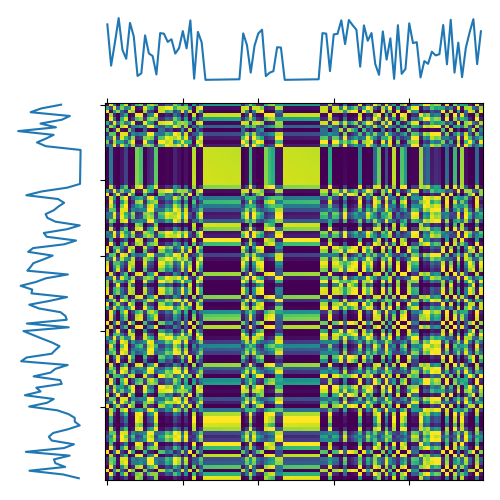
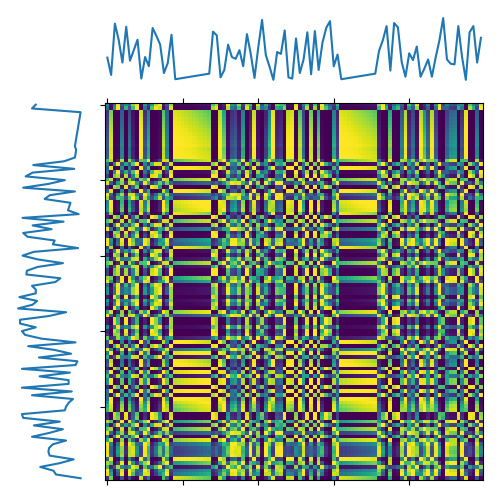
feat: best motif done

diff --git a/app/app.py b/app/app.py
@@ -9,8 +9,8 @@ from locomotif.loconsensus import similarity_matrix as sm
 from locomotif.loconsensus import timeseries_generator as tsg
 
 logging.basicConfig(
-    # level=logging.INFO,
-    level=logging.DEBUG,
+    level=logging.INFO,
+    # level=logging.DEBUG,
     format='%(asctime)s - %(name)s - %(levelname)s - %(message)s',
 )
 
@@ -49,8 +49,8 @@ if __name__ == '__main__':
 
     fig, axs, _ = visualize.plot_similarity_matrix(ts1, ts2, sm1)
     fig.savefig('sm.png')
-    fig, axs, _ = visualize.plot_similarity_matrix(ts1, ts2, csm1)
-    fig.savefig('csm.png')
+    # fig, axs, _ = visualize.plot_similarity_matrix(ts1, ts2, csm1)
+    # fig.savefig('csm.png')
 
     # find the best paths
     found_paths: list[np.ndarray] = path_finder.find_paths(csm1, STEP_SIZES, L_MIN)
@@ -63,9 +63,29 @@ if __name__ == '__main__':
         path_similarities = sm1[rows, columns]
         paths.append(path_class.Path(found_path, path_similarities))
 
+    # axs = visualize.plot_local_warping_paths(axs, [path_object.path for path_object in paths], lw=1)
+    # fig.savefig('paths.png')
+
+    motif_sets = []
+    for representative, motif_set in mf.find_motifs(
+        3, len(ts1), len(ts2), paths, L_MIN, L_MAX
+    ):
+        motif_sets.append((representative, motif_set))
+    LOGGER.info(msg=f'Found {len(motif_sets)} motif sets.')
+
+    representative, motif_set = motif_sets[0]
+    b, e = representative
+
     axs = visualize.plot_local_warping_paths(
         axs, [path_object.path for path_object in paths], lw=1
     )
-    fig.savefig('paths.png')
-
-    mf.find_motifs(2, len(ts1), len(ts2), paths, L_MIN, L_MAX)
+    axs = visualize.plot_local_warping_paths(
+        axs,
+        path_finder.find_induced_paths(
+            b, e, paths, np.full(max(len(ts1), len(ts2)), False)
+        ),
+        lw=3,
+    )
+    axs[3].axvline(b, lw=1, c='k', ls='--')
+    axs[3].axvline(e, lw=1, c='k', ls='--')
+    fig.savefig('induced_paths.png')

diff --git a/src/locomotif-loconsensus/locomotif/loconsensus/motif_finder.py b/src/locomotif-loconsensus/locomotif/loconsensus/motif_finder.py
@@ -4,6 +4,7 @@ from typing import Generator
 import numpy as np
 from locomotif.loconsensus import candidate_finder as cf
 from locomotif.loconsensus import path as path_class
+from locomotif.loconsensus import path_finder as pf
 
 LOGGER = logging.getLogger(__name__)
 
@@ -15,7 +16,7 @@ def find_motifs(
     paths: list[path_class.Path],
     L_MIN: int,
     L_MAX: int,
-) -> Generator[tuple[tuple[int, int], list[path_class.Path], np.ndarray], None, None]:
+) -> Generator[tuple[tuple[int, int], list[tuple[int, int]]], None, None]:
     max_length = max(n, m)
     start_mask = np.full(max_length, True)
     end_mask = np.full(max_length, True)
@@ -35,3 +36,20 @@ def find_motifs(
         LOGGER.debug(
             msg=f'Best candidate: {best_candidate}\nBest fitness: {best_fitness}'
         )
+
+        if best_fitness == 0.0:
+            break
+
+        (start_index, end_index) = best_candidate
+        motif_set = [
+            (path[0][0], path[len(path) - 1][0] + 1)
+            for path in pf.find_induced_paths(start_index, end_index, paths, mask)
+        ]
+
+        # TODO: overlap parmater?
+        for motif_start, motif_end in motif_set:
+            l = motif_end - motif_start
+            mask[motif_start + int(0.0 * l) - 1 : motif_end - int(0.0 * l)] = True
+
+        amount += 1
+        yield best_candidate, motif_set

diff --git a/src/locomotif-loconsensus/locomotif/loconsensus/path_finder.py b/src/locomotif-loconsensus/locomotif/loconsensus/path_finder.py
@@ -146,3 +146,17 @@ def mask_vicinity(
     mask[row_next - V_WIDTH : row_next + V_WIDTH + 1, column_next] = True
     mask[row_next, column_next - V_WIDTH : column_next + V_WIDTH + 1] = True
     return mask
+
+
+def find_induced_paths(start_index, end_index, paths, mask):
+    induced_paths = []
+    for path in paths:
+        if path.column_start <= start_index and end_index <= path.column_end:
+            start_column = path.find_column(start_index)
+            end_column = path.find_column(end_index - 1)
+            motif_start = path[start_column][0]
+            motif_end = path[end_column][0] + 1
+            if not np.any(mask[motif_start:motif_end]):
+                induced_path = np.copy(path.path[start_column : end_column + 1])
+                induced_paths.append(induced_path)
+    return induced_paths

diff --git a/src/locomotif-loconsensus/locomotif/loconsensus/timeseries_generator.py b/src/locomotif-loconsensus/locomotif/loconsensus/timeseries_generator.py
@@ -6,7 +6,7 @@ LOGGER = logging.getLogger(__name__)
 
 
 def generate_timeseries(length: int, pattern: list[int], n_patterns: int) -> np.ndarray:
-    timeseries = np.random.randint(0, 1001, length)
+    timeseries = np.random.randint(0, 101, length)
     for _ in range(n_patterns):
         start = np.random.randint(0, length - len(pattern))
         timeseries[start : start + len(pattern)] = pattern
